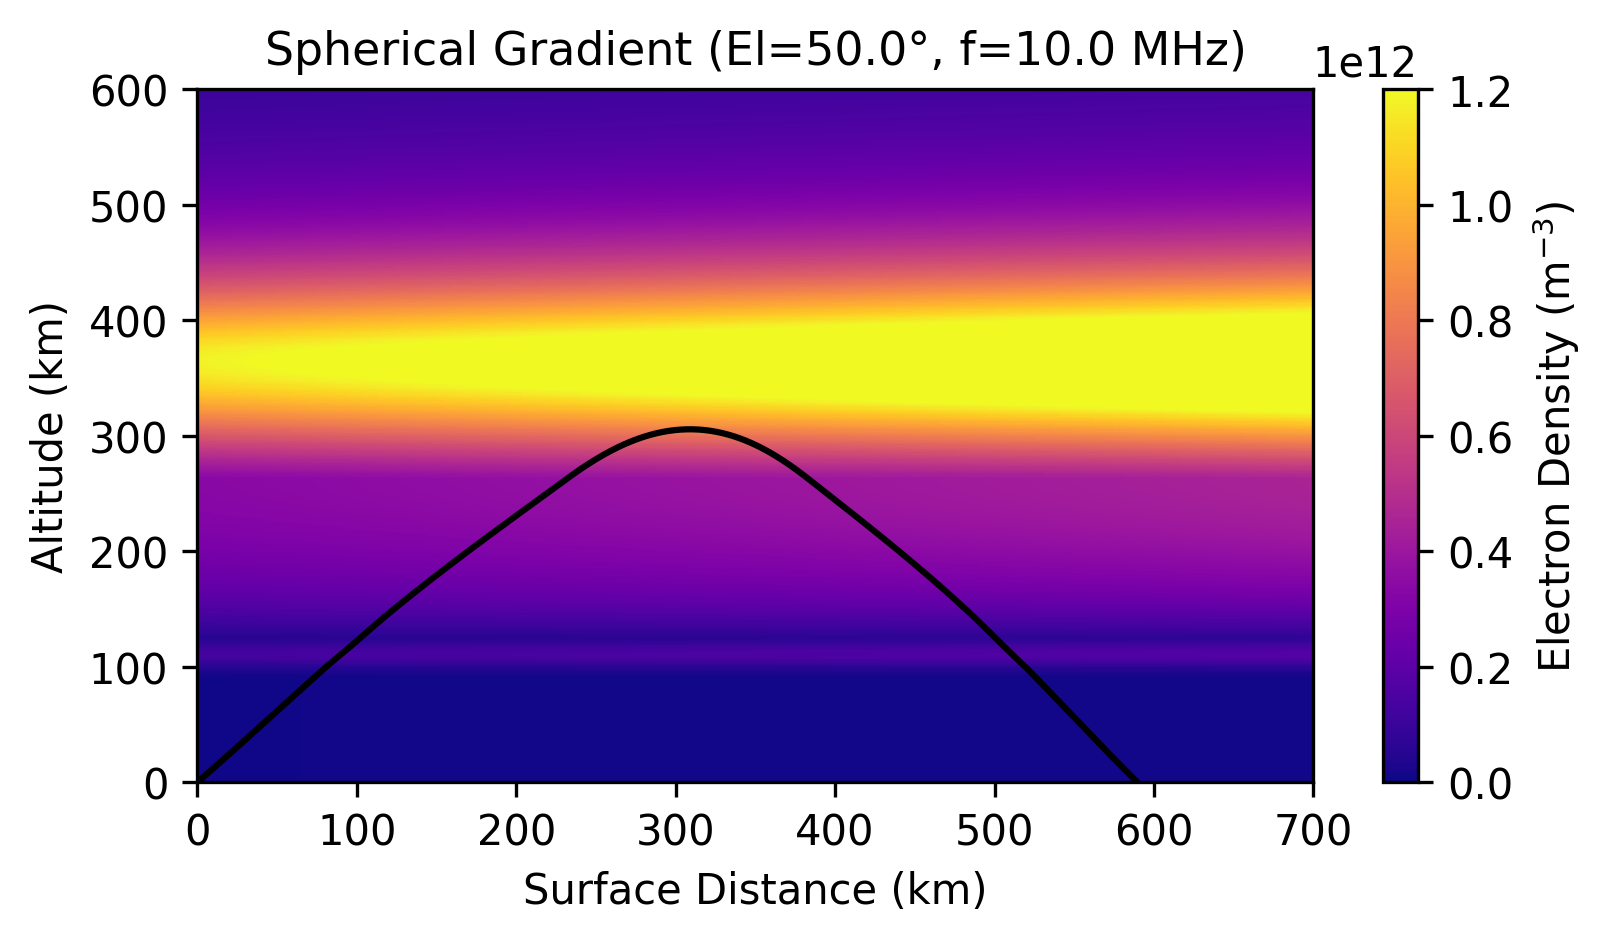
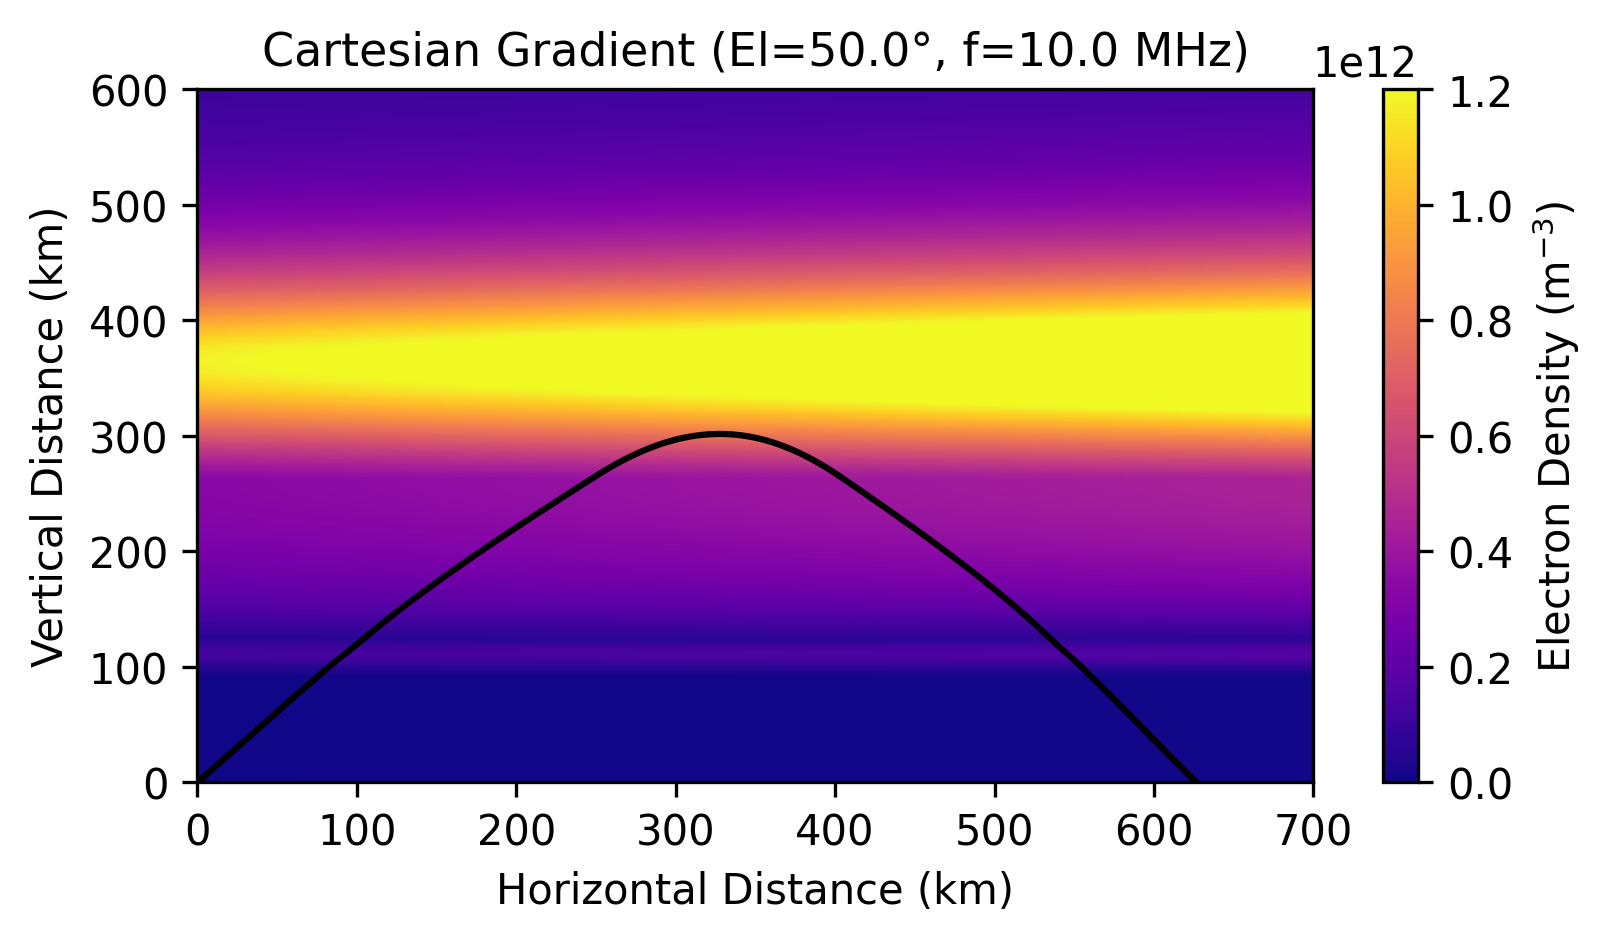
almost there

diff --git a/docs/examples/Example_PyRayHF_Spherical_Gradient.rst b/docs/examples/Example_PyRayHF_Spherical_Gradient.rst
@@ -66,8 +66,9 @@ How to run
     import pickle
     import matplotlib.pyplot as plt
     from PyRayHF.library import find_X, find_Y, find_mu_mup
-    from PyRayHF.library import build_refractive_index_interpolator
-    from PyRayHF.library import trace_ray_cartesian_gradient
+    from PyRayHF.library import build_refractive_index_interpolator_rphi
+    from PyRayHF.library import trace_ray_spherical_gradient
+    from PyRayHF.library import constants
     from scipy.interpolate import RegularGridInterpolator
 
 
@@ -118,29 +119,30 @@ See Example_Generate_Input_Arrays for how to create input arrays using PyIRI.
 
 ::
 
-    n_and_grad = build_refractive_index_interpolator(z_grid, x_grid, mu)
-    mup_interp = RegularGridInterpolator((z_grid, x_grid),
-                                        mup,
+    # Build interpolator from spherical μ grid
+    _, _, R_E, _ = constants()
+    r_grid = R_E + z_grid   # km
+    phi_grid = x_grid / R_E # rad
+    n_and_grad_rphi = build_refractive_index_interpolator_rphi(r_grid, phi_grid, mu)
+
+    # Build μ' interpolator for group delay
+    mup_interp_rphi = RegularGridInterpolator((r_grid, phi_grid), mup,
                                         bounds_error=False,
                                         fill_value=np.nan)
-    mup_func = lambda x, z: mup_interp(np.column_stack([z, x]))
+    mup_func_rphi = lambda x, z: mup_interp_rphi(np.column_stack([R_E + z, x / R_E]))
 
 
-
-6. Raytrace:
+7. Raytrace:
 
 ::
 
-    result = trace_ray_cartesian_gradient(n_and_grad=n_and_grad,
-                                        x0_km=0.0,
-                                        z0_km=0.0,
-                                        elevation_deg=elevation_deg,
-                                        s_max_km=4000.0,
-                                        max_step_km=5.0,
-                                        z_max_km=600.0,
-                                        x_min_km=0.0,
-                                        x_max_km=1000.0,
-                                        mup_func=mup_func)
+    result = trace_ray_spherical_gradient(n_and_grad_rphi=n_and_grad_rphi,
+                                          x0_km=0.0,
+                                          z0_km=0.0,
+                                          elevation_deg=elevation_deg,
+                                          s_max_km=4000.,
+                                          R_E=R_E,
+                                          mup_func=mup_func_rphi)
 
 7. Plot the results:
 
@@ -152,31 +154,30 @@ See Example_Generate_Input_Arrays for how to create input arrays using PyIRI.
     ax_plot.set_xlim(0, 700)
     ax_plot.set_ylim(0, 600)
     ax_plot.set_facecolor("lightgray")
-    ax_plot.set_ylabel('Vertical Distance (km)')
-    ax_plot.set_xlabel('Horizontal Distance (km)')
+    ax_plot.set_ylabel('Altitude (km)')
+    ax_plot.set_xlabel('Surface Distance (km)')
     vmin = 0
     vmax = 1.2e12
     color_ticks = np.arange(vmin, vmax + 2e11, 2e11)
     pc = ax_plot.pcolormesh(Xg, Zg, Ne_gradient, shading='auto',
                             cmap='plasma', vmin=vmin, vmax=vmax)
-    ax_plot.plot(result['x'], result['z'], c='black', label='Gradient')
-    ax_plot.set_title(f"Cartesian Gradient (El={elevation_deg:.1f}°, f={f0_Hz/1e6} MHz)", fontsize=11)
+    ax_plot.plot(result['x'], result['z'], c='black')
+    ax_plot.set_title(f"Spherical Gradient (El={elevation_deg:.1f}°, f={f0_Hz/1e6} MHz)", fontsize=11)
     plt.colorbar(pc, label='Electron Density (m$^{-3}$)', ax=ax_plot,
                 ticks=color_ticks)
-    ax.legend()
     plt.show()
 
-.. image:: figures/Cartesian_Gradient.png
+.. image:: figures/Spherical_Gradient.png
     :width: 500px
     :align: center
-    :alt: Snells Law.
+    :alt: Spherical Gradient.
 
-1. Print diagnostics:
+8. Print diagnostics:
 
 ::
 
     print('--------------------------------------------------')
-    print('Gradient-based raytracing in a medium with gradient:')
+    print('Gradient-based spherical raytracing:')
     print('--------------------------------------------------')
     print('Group Path (km): ', result['group_path_km'])
     print('Group delay (sec): ', result['group_delay_sec'])
@@ -185,14 +186,14 @@ See Example_Generate_Input_Arrays for how to create input arrays using PyIRI.
     print('z midpoint (km): ', result['z_midpoint'])
 
 
-Gradient-based raytracing in a medium with gradient:
+Gradient-based spherical raytracing:
 ----------------------------------------------------
-Group Path (km):  885.8935955316156
+Group Path (km):  863.9433228011467
 
-Group delay (sec):  0.0033971066053262392
+Group delay (sec):  0.0033308603837504686
 
-Ground Range (km):  626.4220854230803
+Ground Range (km):  589.5295689652877
 
-x midpoint (km):  355.28696968480824
+x midpoint (km):  299.3606078980972
 
-z midpoint (km):  296.41432345069234
+z midpoint (km):  304.79357526370404

diff --git a/docs/examples/Example_PyRayHF_Cartesian_Gradient.rst b/docs/examples/Example_PyRayHF_Cartesian_Gradient.rst
@@ -121,15 +121,15 @@ See Example_Generate_Input_Arrays for how to create input arrays using PyIRI.
 ::
 
     result = trace_ray_cartesian_gradient(n_and_grad=n_and_grad,
-                                        x0_km=0.0,
-                                        z0_km=0.0,
-                                        elevation_deg=elevation_deg,
-                                        s_max_km=4000.0,
-                                        max_step_km=5.0,
-                                        z_max_km=600.0,
-                                        x_min_km=0.0,
-                                        x_max_km=1000.0,
-                                        mup_func=mup_func)
+                                          x0_km=0.0,
+                                          z0_km=0.0,
+                                          elevation_deg=elevation_deg,
+                                          s_max_km=4000.0,
+                                          max_step_km=5.0,
+                                          z_max_km=600.0,
+                                          x_min_km=0.0,
+                                          x_max_km=1000.0,
+                                          mup_func=mup_func)
 
 7. Plot the results:
 
@@ -158,14 +158,14 @@ See Example_Generate_Input_Arrays for how to create input arrays using PyIRI.
 .. image:: figures/Cartesian_Gradient.png
     :width: 500px
     :align: center
-    :alt: Snells Law.
+    :alt: Cartesian Gradient.
 
-1. Print diagnostics:
+8. Print diagnostics:
 
 ::
 
     print('--------------------------------------------------')
-    print('Gradient-based raytracing in a medium with gradient:')
+    print('Cartesian gradient-based raytracing:')
     print('--------------------------------------------------')
     print('Group Path (km): ', result['group_path_km'])
     print('Group delay (sec): ', result['group_delay_sec'])
@@ -174,8 +174,8 @@ See Example_Generate_Input_Arrays for how to create input arrays using PyIRI.
     print('z midpoint (km): ', result['z_midpoint'])
 
 
-Gradient-based raytracing in a medium with gradient:
-----------------------------------------------------
+Cartesian gradient-based raytracing:
+-------------------------------------
 Group Path (km):  885.8935955316156
 
 Group delay (sec):  0.0033971066053262392
